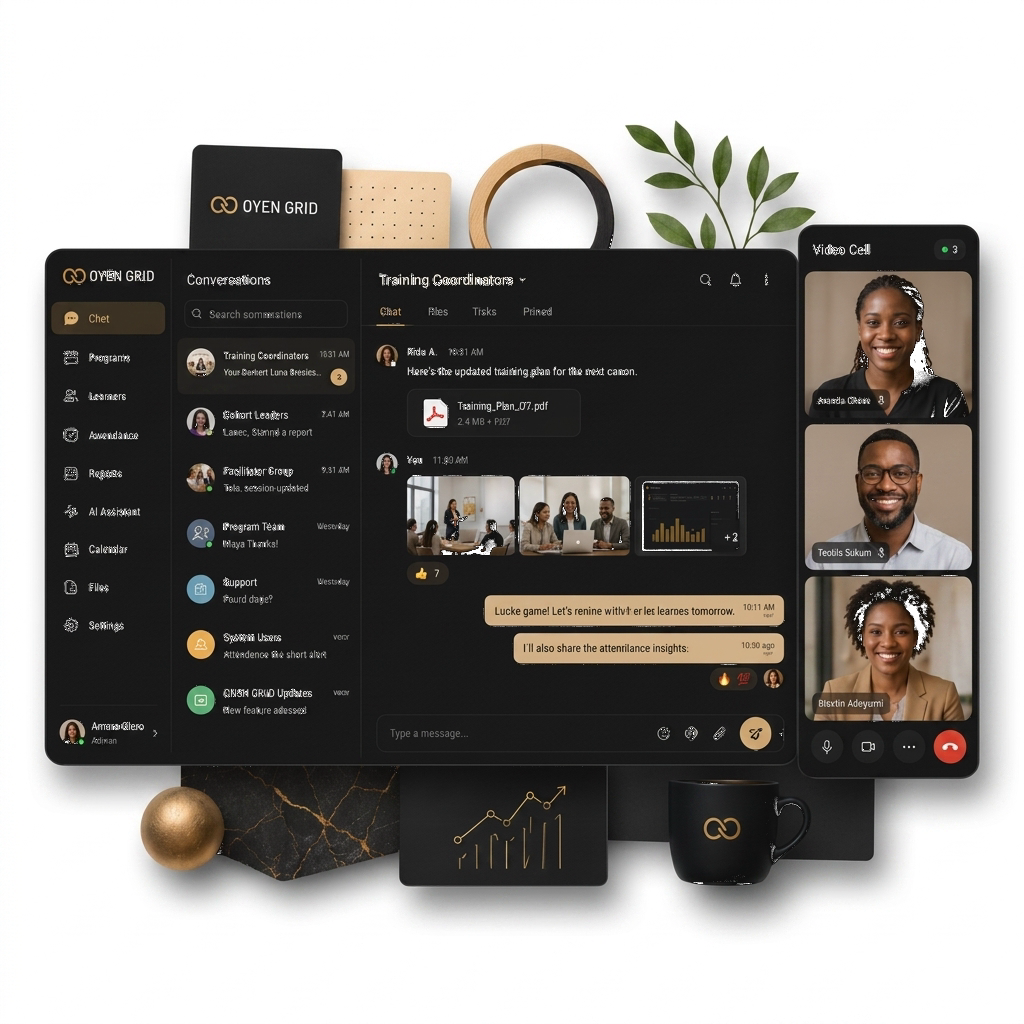
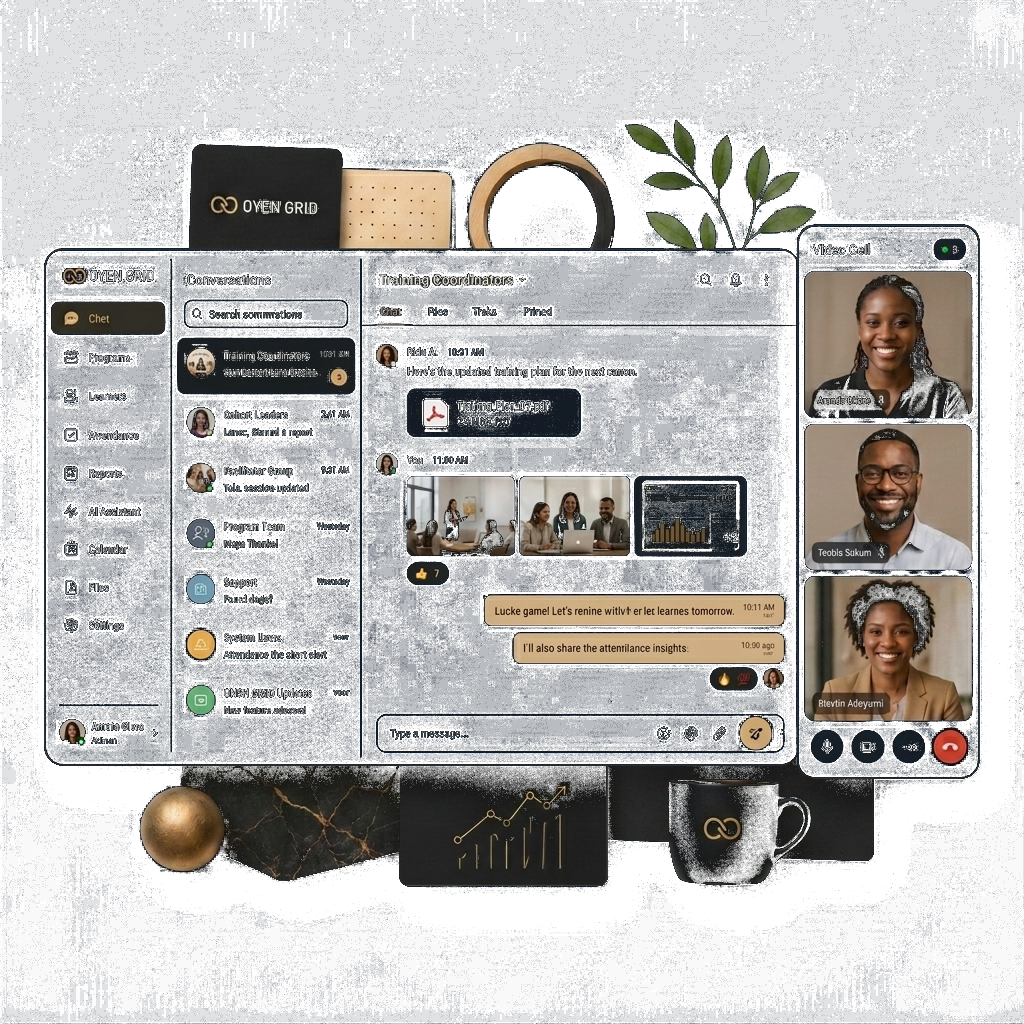
style: update hero mockup with flat #050b14 midnight-blue background and process edges

diff --git a/scratch/clean-hero-smart.js b/scratch/clean-hero-smart.js
@@ -8,10 +8,10 @@ async function main() {
     console.log('Loading image from:', inputPath);
     const image = await Jimp.read(inputPath);
 
-    // Target background color (solid pitch-black #000000)
-    const targetR = 0;
-    const targetG = 0;
-    const targetB = 0;
+    // Target background color (solid dark midnight-blue #050b14)
+    const targetR = 5;
+    const targetG = 11;
+    const targetB = 20;
 
     console.log('Processing pixels with smart feathering...');
     let transparentCount = 0;
@@ -22,14 +22,14 @@ async function main() {
       const green = this.bitmap.data[idx + 1];
       const blue = this.bitmap.data[idx + 2];
 
-      // Distance to target background color (pure black)
+      // Distance to target background color
       const dist = Math.sqrt(
         Math.pow(red - targetR, 2) +
         Math.pow(green - targetG, 2) +
         Math.pow(blue - targetB, 2)
       );
 
-      // Keys out solid black (#000000) background pixels cleanly and feathers borders
+      // Keys out solid midnight-blue (#050b14) background pixels cleanly and feathers borders
       if (dist < 10) {
         this.bitmap.data[idx + 3] = 0;
         transparentCount++;
